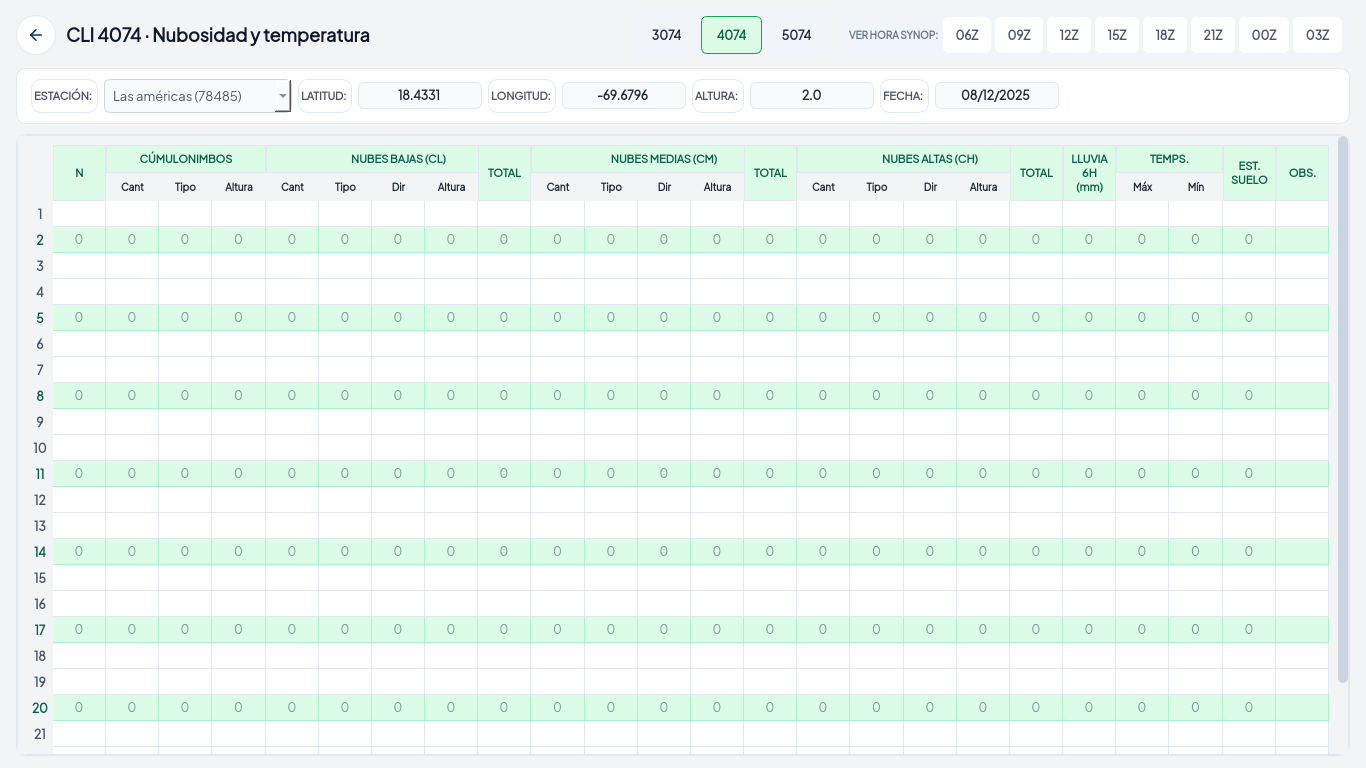
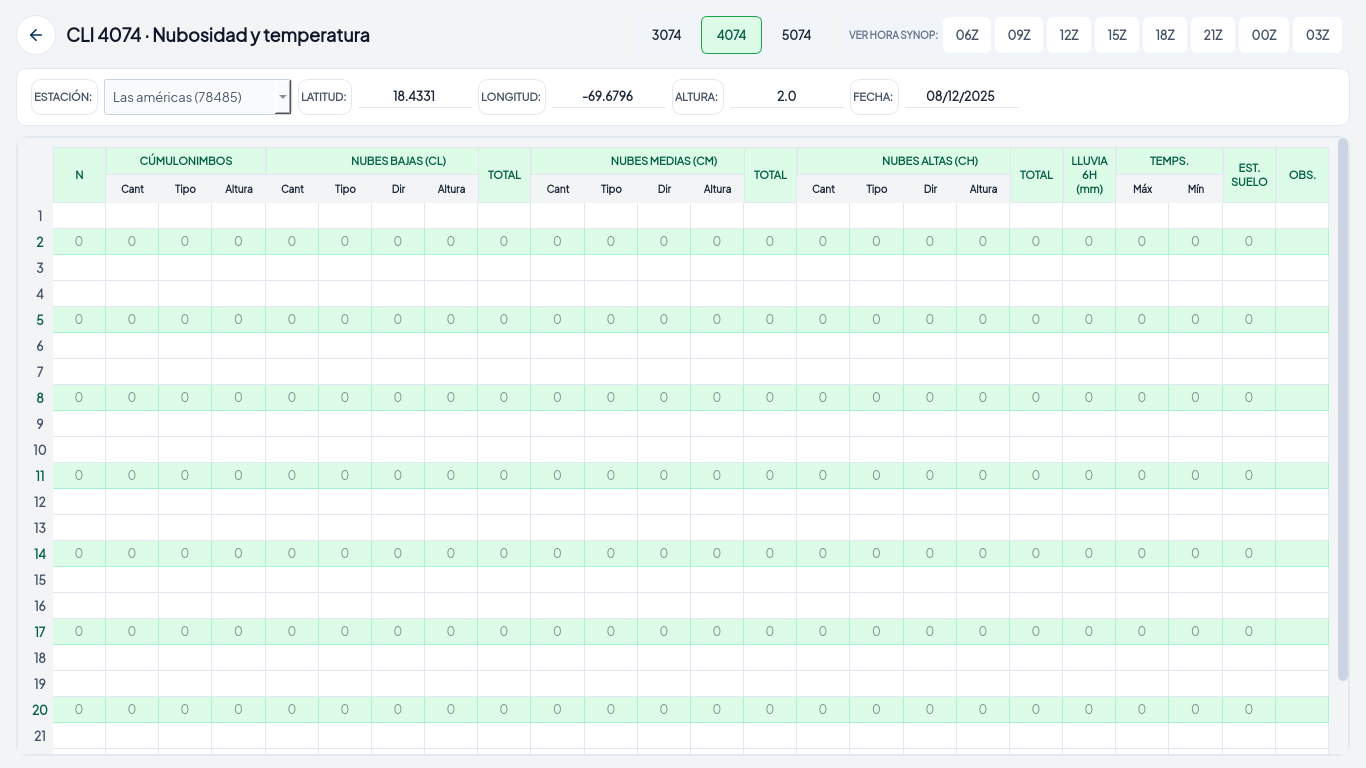
feat(cli): barra de identificación idéntica en las tres hojas
El dueño pidió estándar: Estación, Latitud, Longitud, Altura y Fecha en la
misma posición exacta en los tres CLI, con un diseño ultra mínimo.

- **El 5074 tenía sólo Estación y Fecha**, y sin latitud, longitud ni altura:
  por eso al cambiar de hoja los datos saltaban de tamaño y de forma. Ahora
  carga los tres del repositorio de estaciones, como los otros dos.
- **Mismo orden y mismas columnas** en los tres: ESTACIÓN · LATITUD · LONGITUD ·
  ALTURA · FECHA, en las columnas 0/2/4/6/8 del grid, para que al cambiar de
  CLI nada se mueva.
- **Diseño ultra mínimo**: campo sin caja, con la línea inferior de 1 px, radio
  0, texto de 12 px y fondo transparente. Antes cada hoja usaba una caja
  rellena con borde distinto (3074 `panel_alt` con borde completo, 4074 y 5074
  variantes propias).
- Combo de estación unificado: radio 3, alto 26, en las tres hojas.

Verificado en captura clara y oscura. 849 passed, EXIT=0, sin avisos de Qt.

diff --git a/oms_ui/pages/cli5074.py b/oms_ui/pages/cli5074.py
@@ -294,18 +294,51 @@ class Cli5074View(QWidget):
         self.station_combo.setEnabled(False)  # locked like the oracle route
         self.station_combo.setStyleSheet(_qss(
             "QComboBox { background-color: $panel_alt; border: 1px solid $borde_input;"
-            "border-radius: 6px; padding: 4px 8px; color: $suave; height: 24px; }"
+            "border-radius: 3px; padding: 4px 8px; color: $suave; height: 26px; }"
         ))
-        self.fecha_edit = QLineEdit(f"{self.fecha[8:]}/{self.fecha[5:7]}/{self.fecha[:4]}")
-        self.fecha_edit.setReadOnly(True)
-        self.fecha_edit.setStyleSheet(_qss(_INPUT_QSS))
 
+        self.latitud_edit = self._ro_meta_field()
+        self.longitud_edit = self._ro_meta_field()
+        self.altura_edit = self._ro_meta_field()
+        self.fecha_edit = self._ro_meta_field()
+        year, month, day = self.fecha.split("-")
+        self.fecha_edit.setText(f"{day}/{month}/{year}")
+        station_row = next(
+            (s for s in stations_repo.list_stations(self._conn) if s.id == self.station),
+            None,
+        )
+        if station_row is not None:
+            self.latitud_edit.setText(str(round(station_row.latitud, 4)))
+            self.longitud_edit.setText(str(round(station_row.longitud, 4)))
+            self.altura_edit.setText(str(round(station_row.ch, 1)))
+
+        # Misma barra de identificación en los tres CLI: mismos rótulos, mismo
+        # orden y la misma posición de columna, para que al cambiar de hoja
+        # nada salte.
         grid.addWidget(meta_label("ESTACIÓN:"), 0, 0)
         grid.addWidget(self.station_combo, 0, 1)
-        grid.addWidget(meta_label("FECHA:"), 0, 2)
-        grid.addWidget(self.fecha_edit, 0, 3)
-        grid.setColumnStretch(4, 1)
+        grid.addWidget(meta_label("LATITUD:"), 0, 2)
+        grid.addWidget(self.latitud_edit, 0, 3)
+        grid.addWidget(meta_label("LONGITUD:"), 0, 4)
+        grid.addWidget(self.longitud_edit, 0, 5)
+        grid.addWidget(meta_label("ALTURA:"), 0, 6)
+        grid.addWidget(self.altura_edit, 0, 7)
+        grid.addWidget(meta_label("FECHA:"), 0, 8)
+        grid.addWidget(self.fecha_edit, 0, 9)
+        grid.setColumnStretch(10, 1)
         outer.addWidget(card)
+
+    def _ro_meta_field(self) -> QLineEdit:
+        """Campo de identificación ultra mínimo: sin caja, sólo línea inferior."""
+        campo = QLineEdit()
+        campo.setReadOnly(True)
+        campo.setStyleSheet(_qss(
+            "QLineEdit { background: transparent; border: none;"
+            " border-bottom: 1px solid $borde; border-radius: 0px;"
+            " padding: 2px 4px; color: $texto; font-size: 12px; }"
+        ))
+        campo.setMinimumHeight(26)
+        return campo
 
     def _build_hourly_card(self, layout: QHBoxLayout) -> None:
         _card, card_layout = self._section_card(layout, "HORARIO")

diff --git a/oms_ui/pages/cli3074.py b/oms_ui/pages/cli3074.py
@@ -397,7 +397,7 @@ class Cli3074View(QWidget):
         self.station_combo.setEnabled(False)  # locked like the oracle route
         self.station_combo.setStyleSheet(_qss(
             "QComboBox { background-color: $panel_alt; border: 1px solid $borde_input;"
-            "border-radius: 6px; padding: 4px 8px; color: $suave; height: 24px; }"
+            "border-radius: 3px; padding: 4px 8px; color: $suave; height: 26px; }"
         ))
 
         self.latitud_edit = self._ro_meta_field()
@@ -515,11 +515,8 @@ class Cli3074View(QWidget):
         edit = QLineEdit()
         edit.setReadOnly(True)
         edit.setAlignment(Qt.AlignmentFlag.AlignCenter)
-        edit.setStyleSheet(_qss(
-            "background-color: $panel_alt; border: 1px solid $borde;"
-            "border-radius: 6px; padding: 4px 8px; color: $texto;"
-            "font-size: 12px;"
-        ))
+        # ultra mínimo: sin caja, sólo la línea inferior (igual en los tres CLI)
+        edit.setStyleSheet(_qss("background: transparent; border: none; border-bottom: 1px solid $borde; border-radius: 0px; padding: 2px 4px; color: $texto; font-size: 12px;"))
         return edit
 
     def _build_data_row(self, grid: QGridLayout, row: int) -> None:

diff --git a/oms_ui/pages/cli4074.py b/oms_ui/pages/cli4074.py
@@ -403,7 +403,7 @@ class Cli4074View(QWidget):
         self.station_combo.setEnabled(False)  # locked like the oracle route
         self.station_combo.setStyleSheet(_qss(
             "QComboBox { background-color: $panel_alt; border: 1px solid $borde_input;"
-            "border-radius: 6px; padding: 4px 8px; color: $suave; height: 24px; }"
+            "border-radius: 3px; padding: 4px 8px; color: $suave; height: 26px; }"
         ))
         self.fecha_edit = _ro_field(f"{self.fecha[8:]}/{self.fecha[5:7]}/{self.fecha[:4]}")
 
@@ -505,9 +505,7 @@ def _ro_field(text: str) -> QLineEdit:
     edit = QLineEdit(text)
     edit.setReadOnly(True)
     edit.setAlignment(Qt.AlignmentFlag.AlignCenter)
-    edit.setStyleSheet(_qss(
-        "background-color: $panel_alt; border: 1px solid $borde;"
-        "border-radius: 6px; padding: 4px 8px; color: $texto; font-size: 12px;"
-    ))
+    # ultra mínimo: sin caja, sólo la línea inferior (igual en los tres CLI)
+    edit.setStyleSheet(_qss("background: transparent; border: none; border-bottom: 1px solid $borde; border-radius: 0px; padding: 2px 4px; color: $texto; font-size: 12px;"))
     return edit
 
